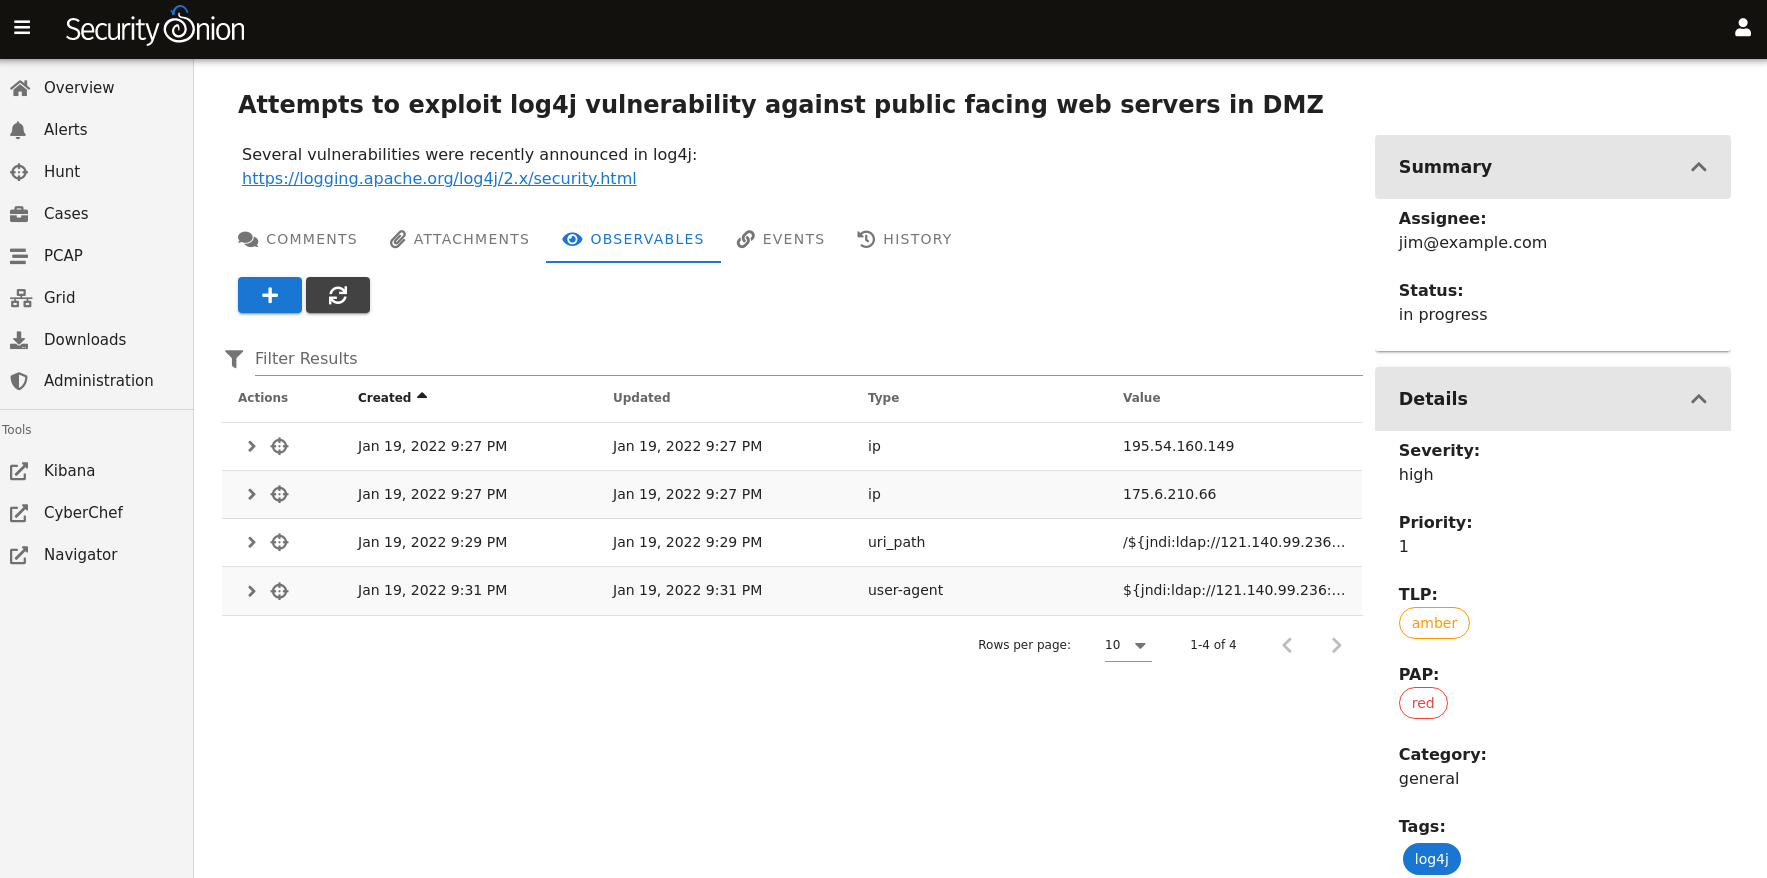
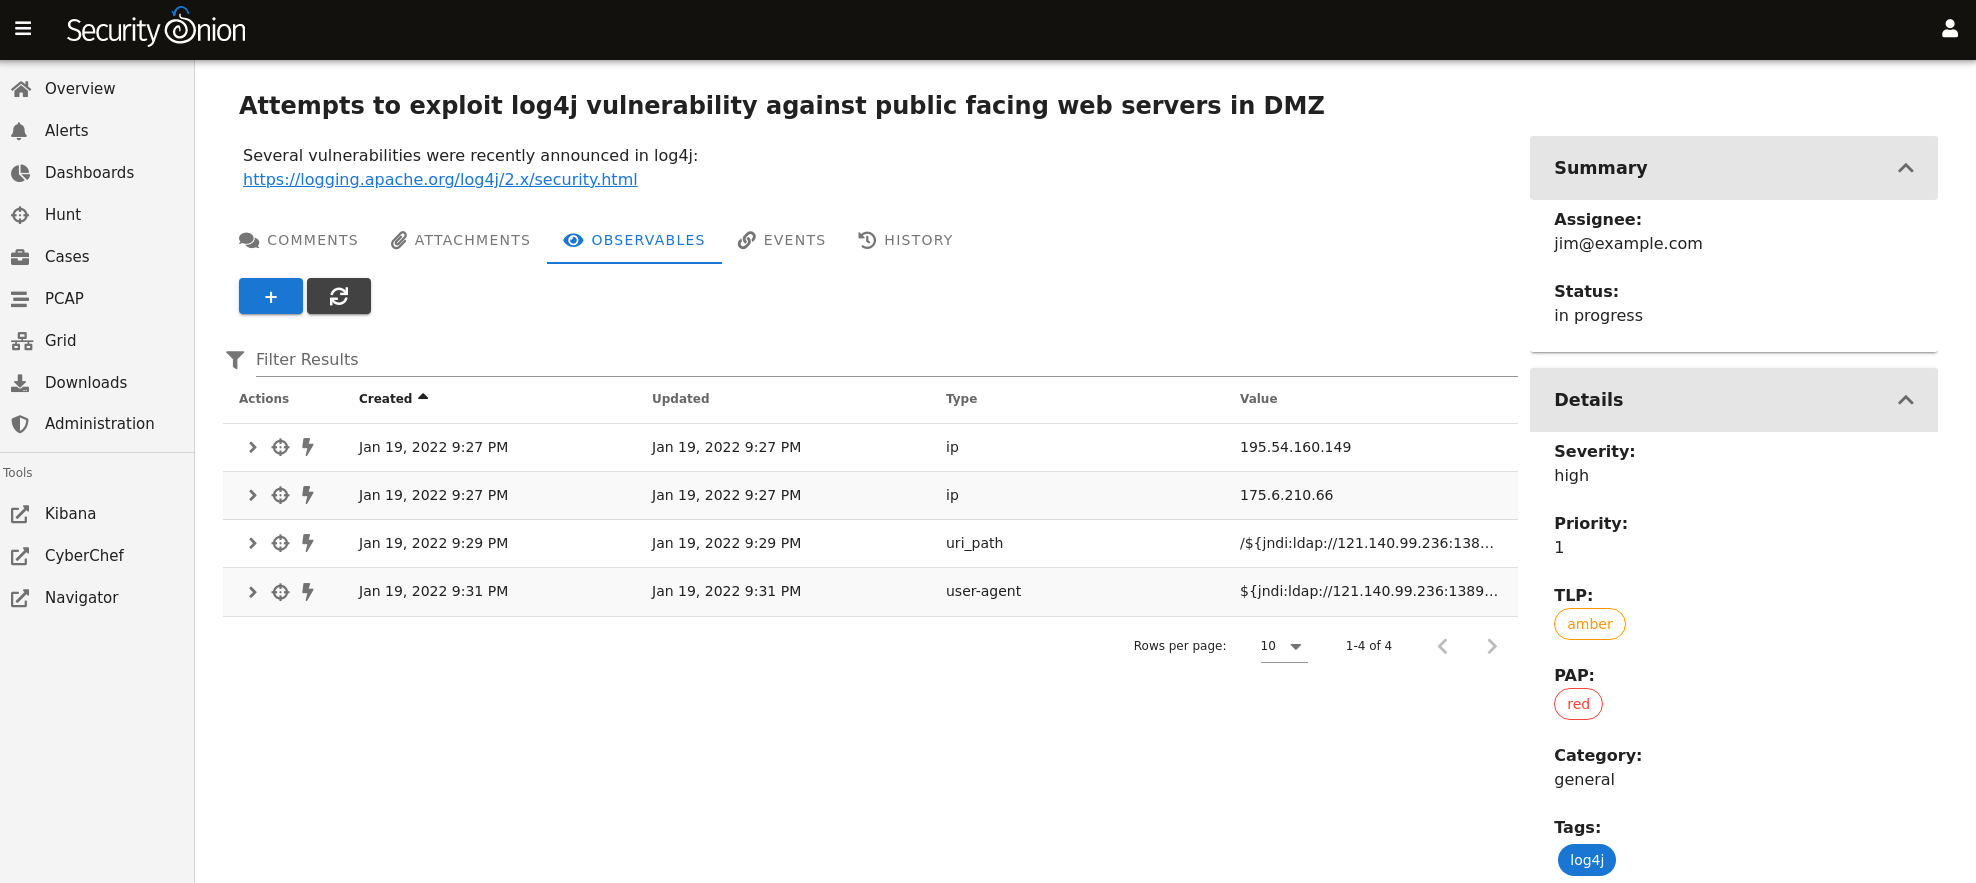
update for 2.3.130

diff --git a/cases.rst b/cases.rst
@@ -57,7 +57,7 @@ On the Observables tab, you can track observables like IP addresses, domain name
 .. image:: images/cases-observables.png
   :target: _images/cases-observables.png
 
-For each observable, you can click the icon on the far left of the row to drill into the observable and see more information about it. To the right of that is the the hunt icon which will start a new hunt for the observable.
+For each observable, you can click the icon on the far left of the row to drill into the observable and see more information about it. To the right of that is the the hunt icon which will start a new hunt for the observable. Starting in Security Onion 2.3.130, clicking the lightning bolt icon will analyze the observable (see the Analyzers section later).
 
 Events
 ------
@@ -127,10 +127,85 @@ The remainder of the main Cases page is a data table that shows a high level ove
 Data
 ----
 
-Cases data is stored in :ref:`elasticsearch`. You can view it in :ref:`hunt` by clicking the Options menu and disabling the ``Exclude case data`` option. You can then search the ``so-case`` index with the following query:
+Cases data is stored in :ref:`elasticsearch`. You can view it in :ref:`dashboards` or :ref:`hunt` by clicking the Options menu and disabling the ``Exclude case data`` option. You can then search the ``so-case`` index with the following query:
 
 ::
 
 	_index:"*:so-case"
 
 You can also use this query in :ref:`kibana`.
+
+Analyzers
+---------
+
+Starting in Security Onion 2.3.130, we have included analyzers which allow you to quickly gather context around an observable.
+
+Supported Analyzers and Data Types
+~~~~~~~~~~~~~~~~~~~~~~~~~~~~~~~~~~
+
+The following is a summary of the native analyzers and their supported data types:
+
+=======================       ======= ====   ==   ===   ====  ===== ===  === ==========
+ Name                         Domain  Hash   IP   JA3   Mail  Other URI  URL User Agent
+=======================       ======= ====   ==   ===   ====  ===== ===  === ==========  
+Alienvault OTX                   ✓      ✓                                 ✓
+EmailRep                                                  ✓
+Greynoise                                     ✓
+JA3er                                              ✓
+LocalFile                        ✓      ✓     ✓                 ✓         ✓
+Malware Hash Registry                   ✓
+Pulsedive                        ✓      ✓     ✓                      ✓    ✓      ✓
+Spamhaus                                      ✓
+Urlhaus                                                                   ✓
+Urlscan                                                                   ✓
+Virustotal                       ✓      ✓     ✓                           ✓
+WhoisLookup                      ✓
+=======================       ======= ====   ==   ===   ====  ===== ===  === ==========
+
+Running Analyzers
+~~~~~~~~~~~~~~~~~
+
+To enqueue an analyzer job, click the lightning bolt icon on the left side of the observable menu:
+
+.. image:: images/analyzers-analyze-icon.png
+  :target: _images/analyzers-analyze-icon.png
+
+All configured analyzers supporting the observable's data type will then run and return their analysis:
+
+.. image:: images/analyzers-hash-results-summary.png
+  :target: _images/analyzers-hash-results-summary.png
+
+Analyzer Output
+~~~~~~~~~~~~~~~
+
+The collapsed job view for an analyzer will return a summary view of the analysis:
+
+.. image:: images/analyzers-job-summary.png
+  :target: _images/analyzers-job-summary.png
+  
+Expanding the collapsed row will reveal a more detailed view of the analysis:
+
+.. image:: images/analyzers-job-details.png
+  :target: _images/analyzers-job-details.png
+
+Configuring Analyzers
+~~~~~~~~~~~~~~~~~~~~~
+
+Some analyzers require authentication or other details to be configured before use. If analysis is requested for an observable and an analyzer supports that observable type but the analyzer is left unconfigured, then it will not run.
+
+The following analyzers require users to configure authentication or other parameters in order for the analyzer to work correctly:
+
+- AlienVault OTX
+- EmailRep
+- GreyNoise
+- LocalFile
+- Pulsedive
+- Urlscan
+- VirusTotal
+
+To configure an analyzer, consult its documentation via the provided README file. For example, the README for the VirusTotal analyzer can be found at https://github.com/Security-Onion-Solutions/securityonion/tree/dev/salt/sensoroni/files/analyzers/virustotal.
+
+Developing Analyzers
+~~~~~~~~~~~~~~~~~~~~
+
+If you'd like to develop a custom analyzer, take a look at the developer's guide at https://github.com/Security-Onion-Solutions/securityonion/tree/dev/salt/sensoroni/files/analyzers.

diff --git a/hunt.rst b/hunt.rst
@@ -8,7 +8,7 @@ Hunt is similar to our :ref:`dashboards` interface.
 .. image:: images/hunt.png
   :target: _images/hunt.png
 
-The main difference between Hunt and :ref:`dashboards` is that Hunt's default queries are more focused than the overview queries in :ref:`dashboards`.
+The main difference between Hunt and :ref:`dashboards` is that Hunt's default queries are more focused than the overview queries in :ref:`dashboards`. Also, all :ref:`dashboards` queries display a separate table for each field, whereas many of the default queries in Hunt aggregate multiple fields in a single table which can be beneficial when hunting for more obscure activity.
 
 .. image:: https://user-images.githubusercontent.com/1659467/94723168-5256e880-0326-11eb-8952-37804962d526.png
   :target: https://user-images.githubusercontent.com/1659467/94723168-5256e880-0326-11eb-8952-37804962d526.png
